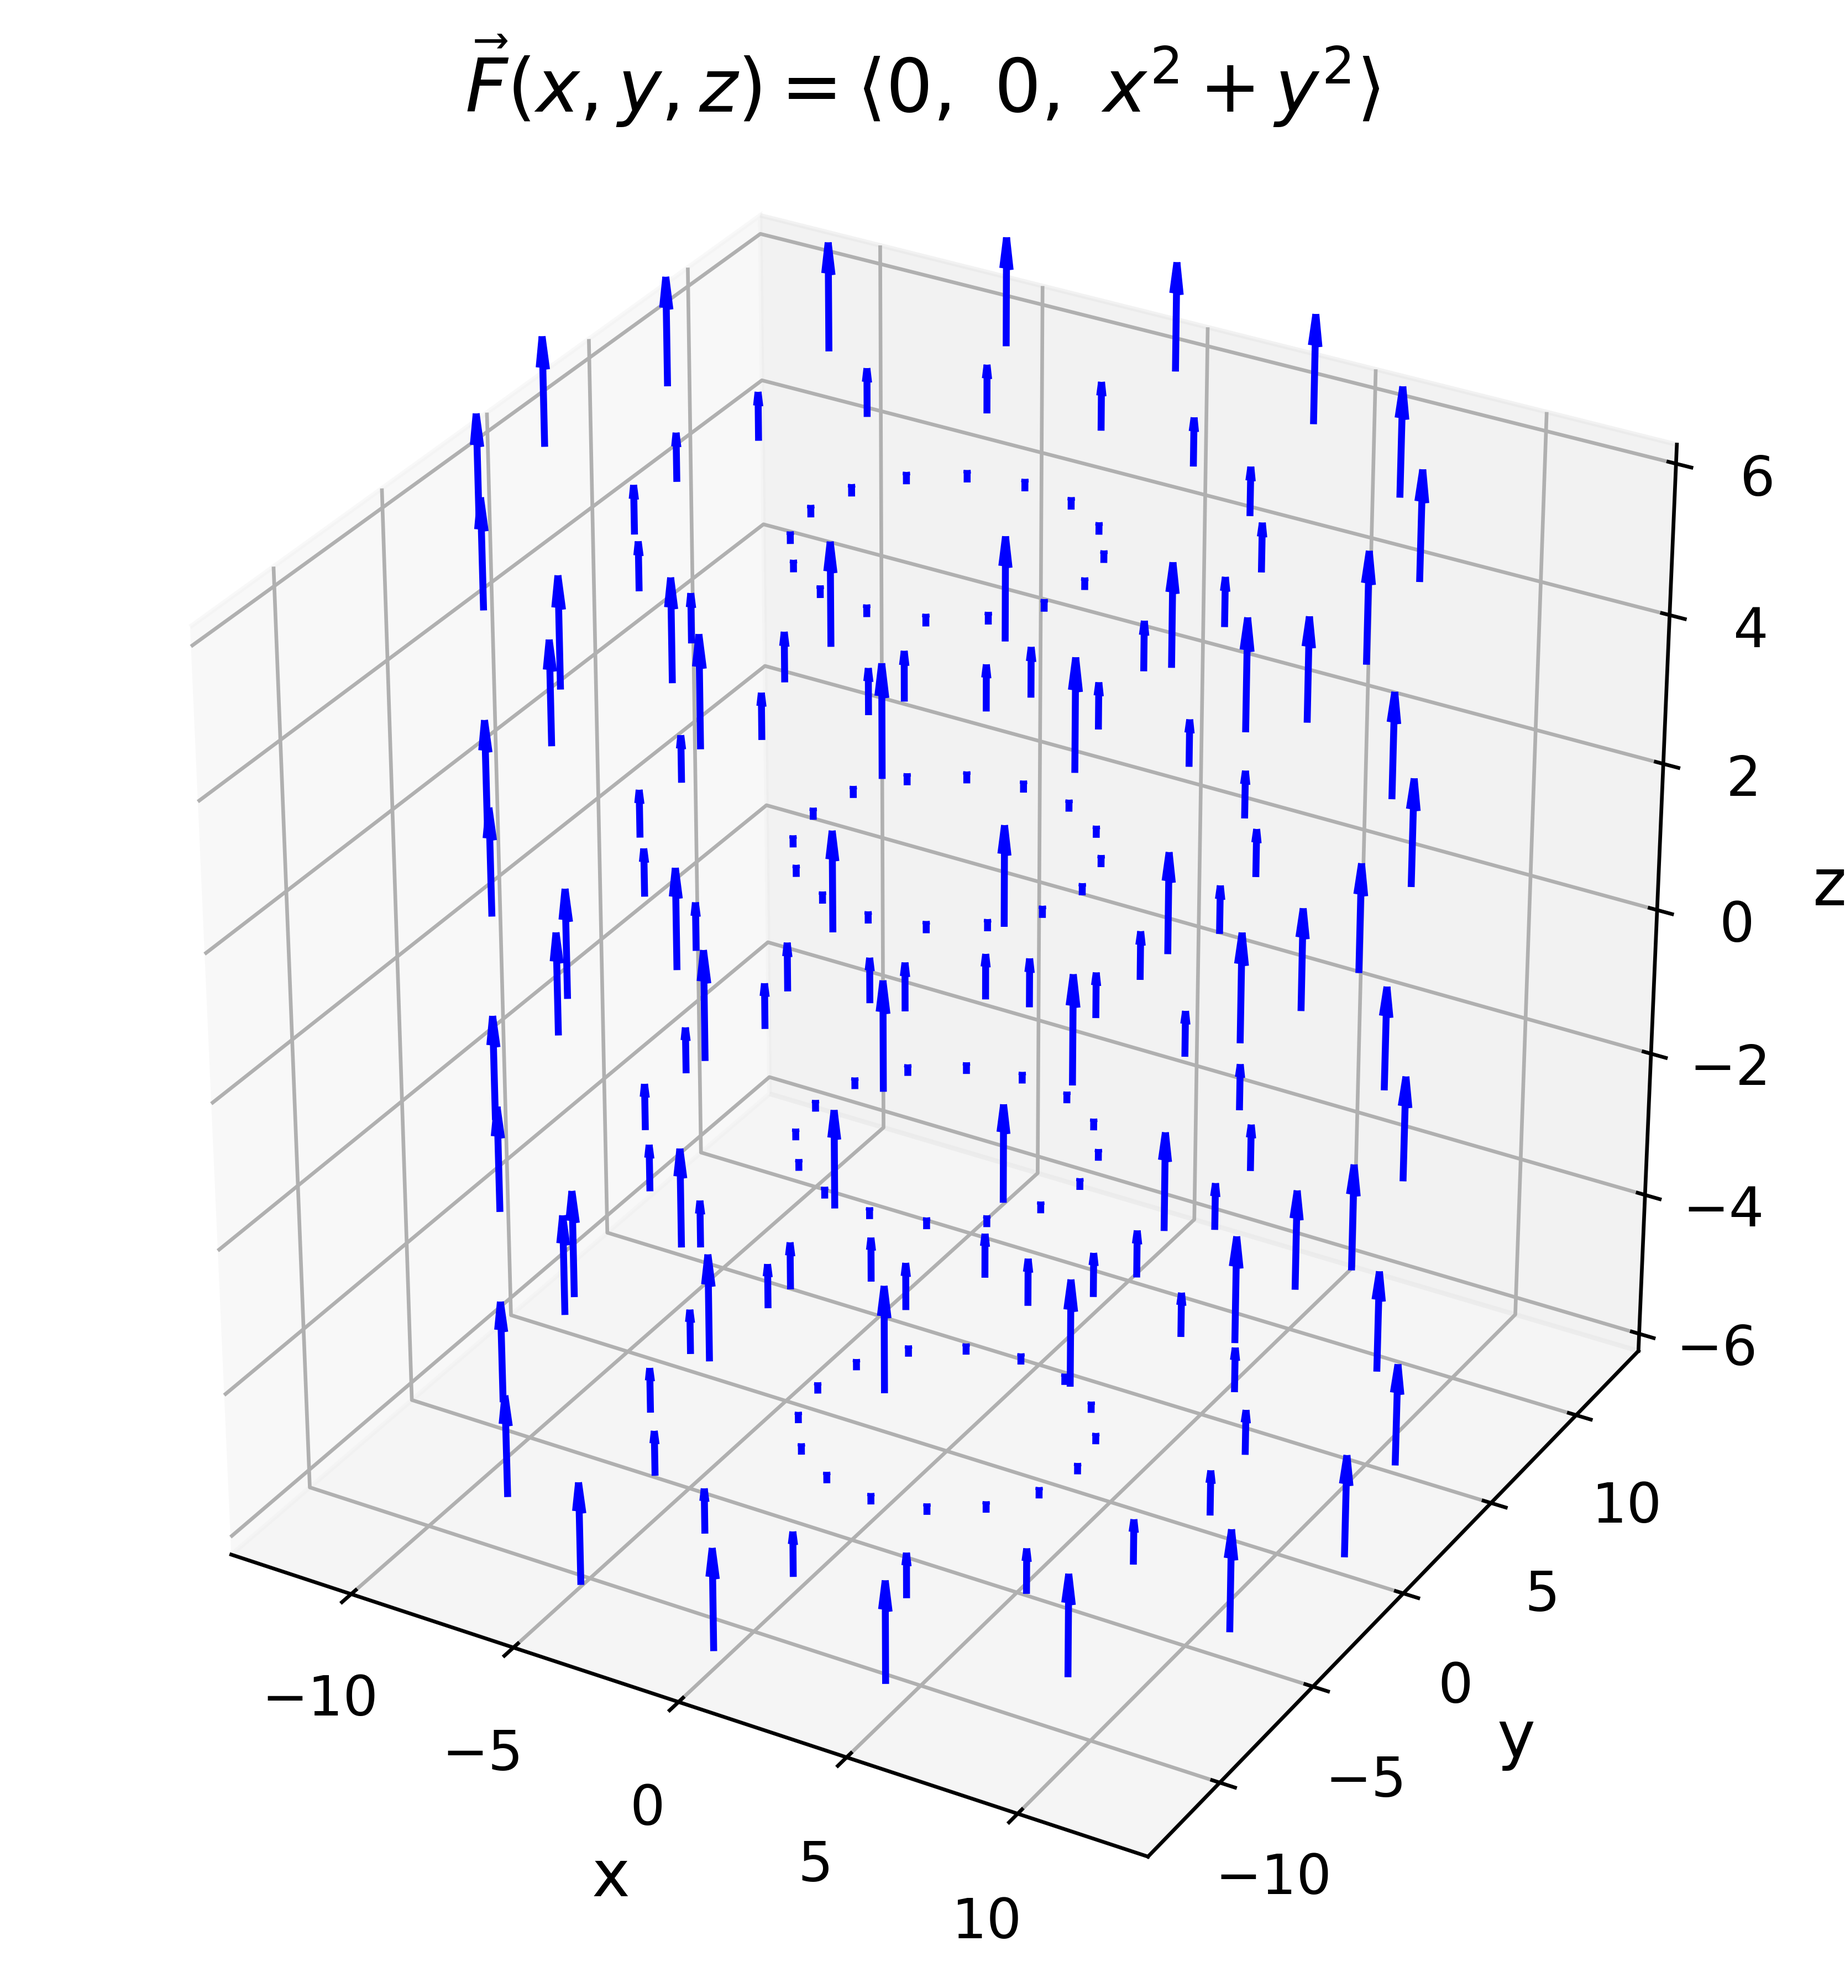
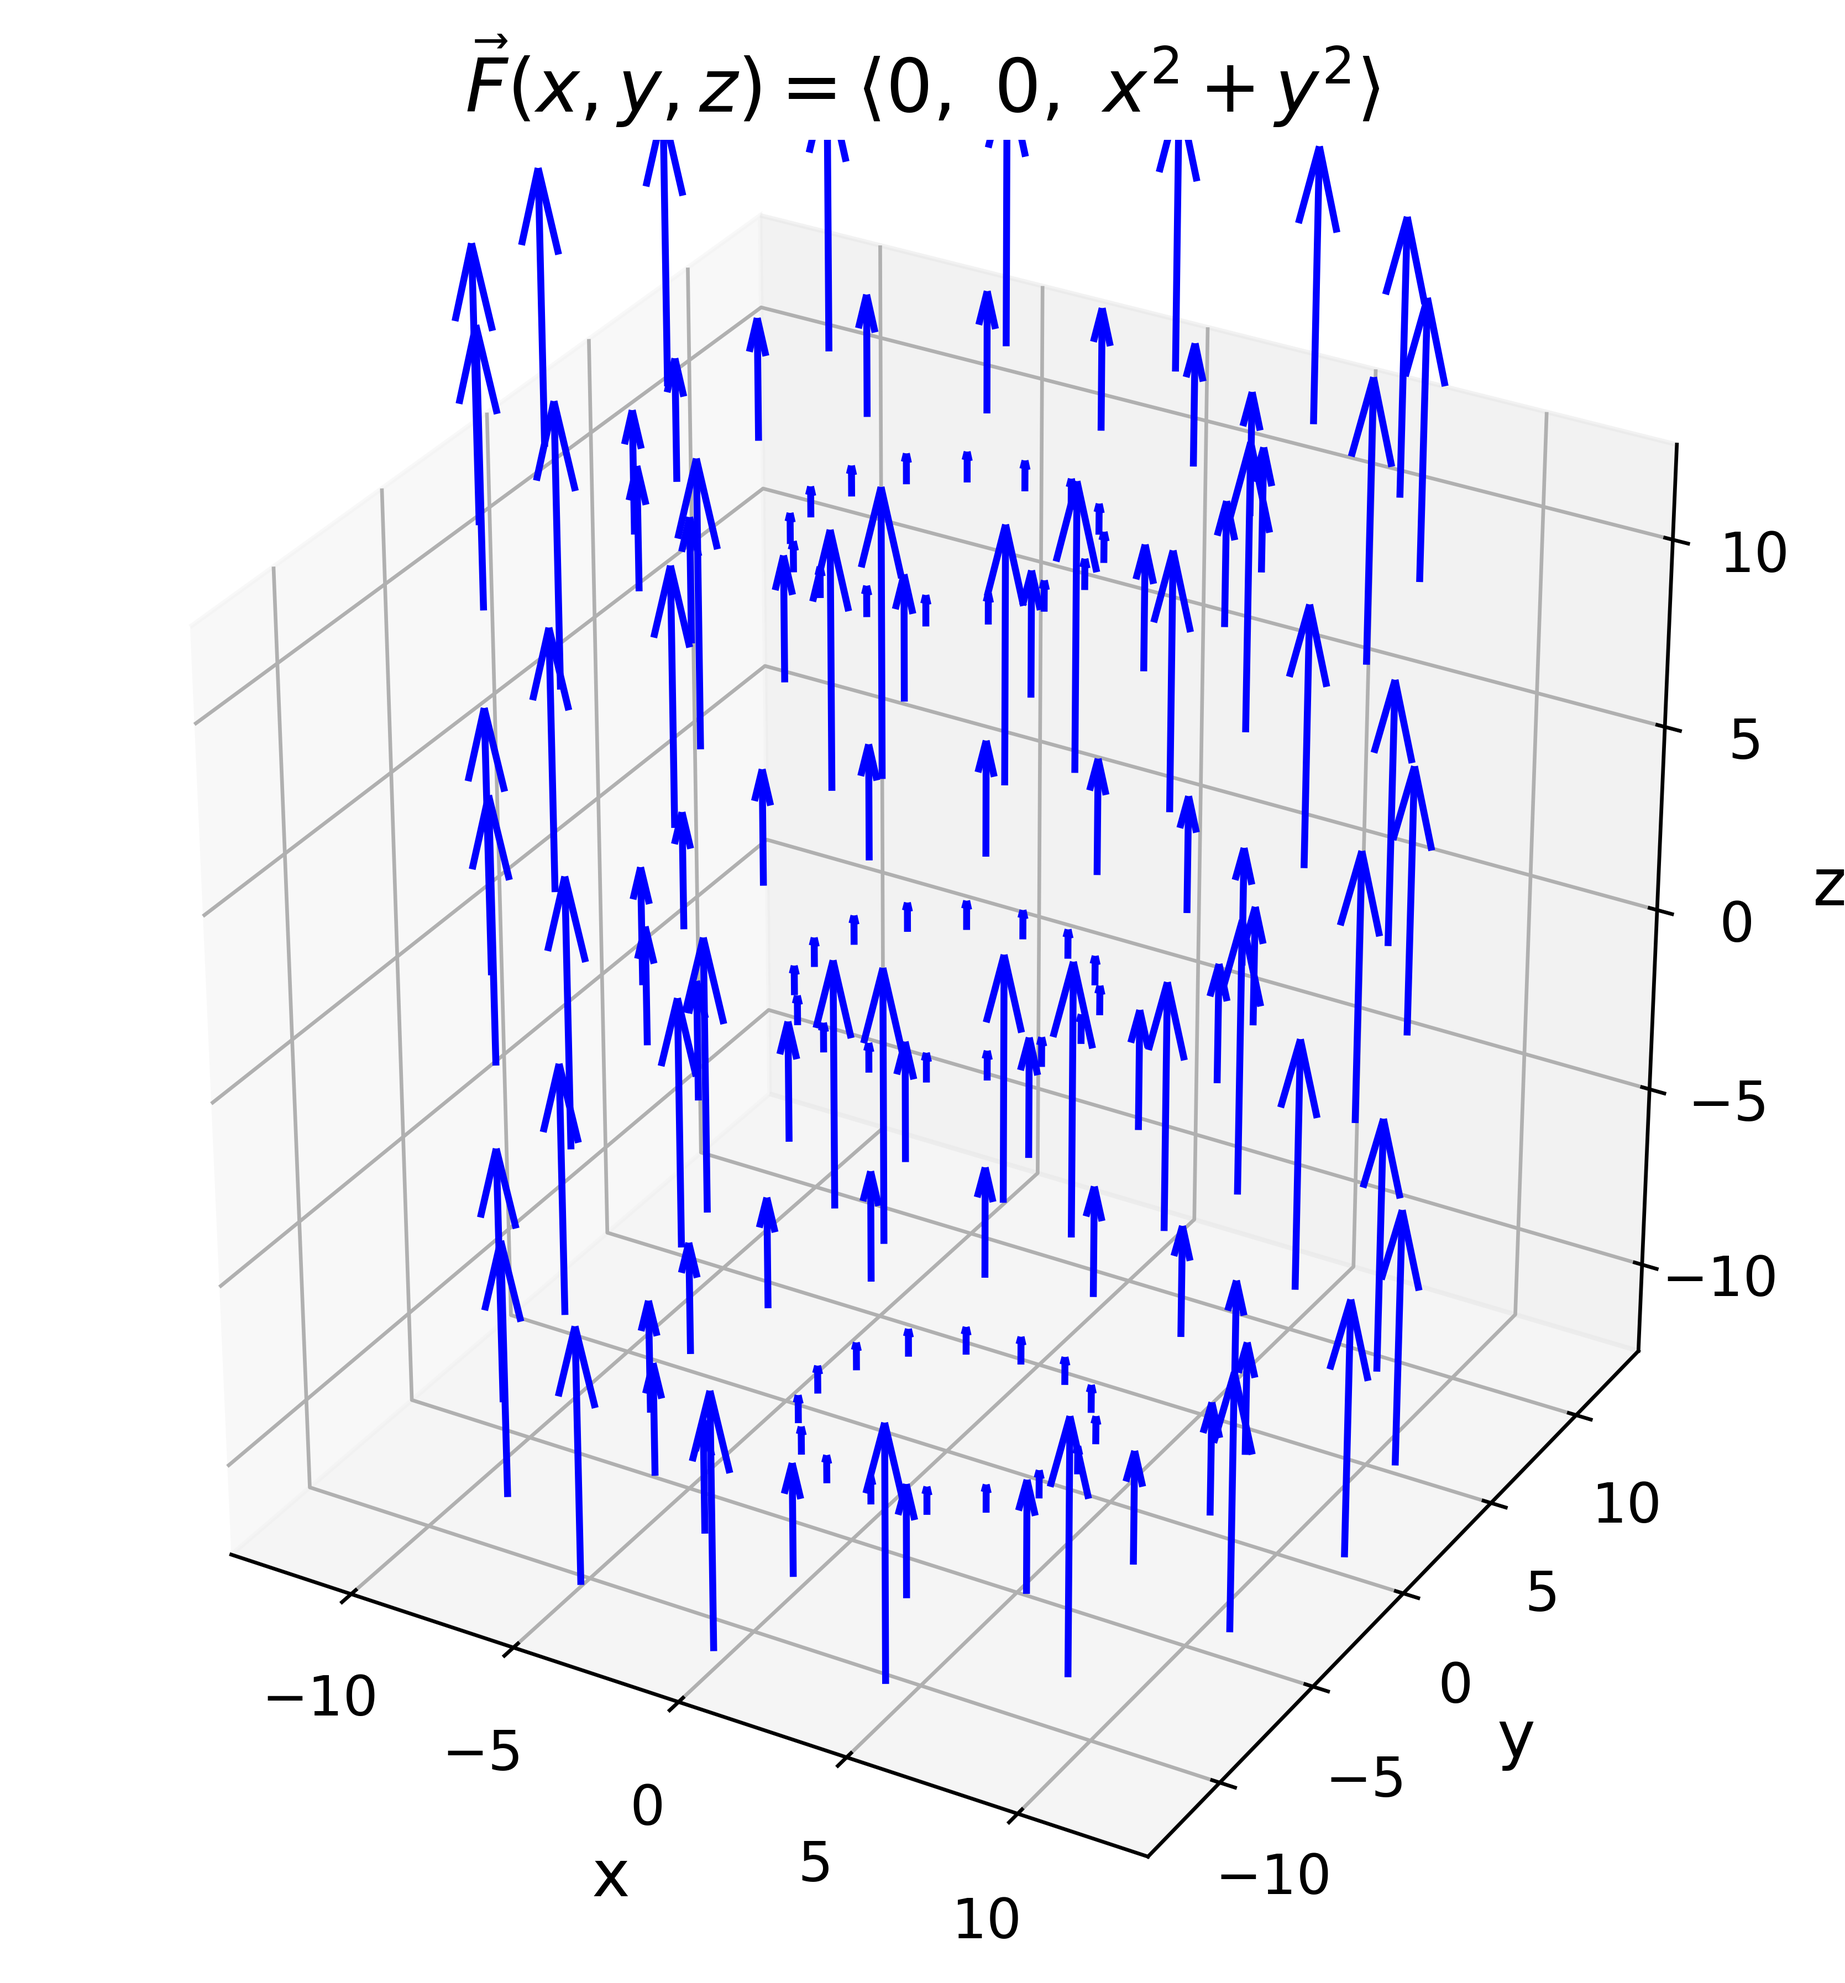
1.1.7 polished

diff --git a/one-one/seven/c.py b/one-one/seven/c.py
@@ -1,32 +1,10 @@
-import numpy as np
-import matplotlib.pyplot as plt
+from vector_field import vf_plot
 
-from mpl_toolkits.mplot3d import Axes3D
-
-# Parameters
-radii = np.linspace(0, 12, 4)
-thetas = np.linspace(0, 2 * np.pi, 16, endpoint=False)
-zs = np.linspace(-6, 6, 4)
-
-R, T, Z = np.meshgrid(radii, thetas, zs, indexing='ij')
-X = R * np.cos(T)
-Y = R * np.sin(T)
-
-U = X + Y
-V = X - Y
-W = -Z
-
-fig = plt.figure(figsize=(6, 6))
-ax = fig.add_subplot(111, projection="3d")
-ax.quiver(X, Y, Z, U, V, W, length=0.2, normalize=False, color="blue", arrow_length_ratio=0.3)
-
-ax.set_title(r"$\vec{F}(x, y, z) = \langle x + y,\ x - y,\ -z \rangle$", fontsize=16)
-ax.set_xlabel("x", fontsize=14)
-ax.set_ylabel("y", fontsize=14)
-ax.set_zlabel("z", fontsize=14)
-ax.set_box_aspect([1, 1, 1])
-ax.tick_params(labelsize=12)
-
-plt.tight_layout()
-plt.savefig("one-one/seven/images/vector_field_c.png", dpi=600, bbox_inches="tight")
-plt.show()
+vf_plot(
+    "c", 
+    fx=lambda x,y,z: x + y, 
+    fy=lambda x,y,z: x - y,
+    fz=lambda x, y, z: -z, 
+    title=r"$\vec{F}(x, y, z) = \langle x + y,\ x - y,\ -z \rangle$",
+    length=0.2
+)

diff --git a/one-one/seven/b.py b/one-one/seven/b.py
@@ -1,32 +1,10 @@
-import numpy as np
-import matplotlib.pyplot as plt
+from vector_field import vf_plot
 
-from mpl_toolkits.mplot3d import Axes3D
-
-# Parameters
-radii = np.linspace(0, 12, 4)
-thetas = np.linspace(0, 2 * np.pi, 16, endpoint=False)
-zs = np.linspace(-6, 6, 4)
-
-R, T, Z = np.meshgrid(radii, thetas, zs, indexing='ij')
-X = R * np.cos(T)
-Y = R * np.sin(T)
-
-U = Y
-V = -X
-W = -Z
-
-fig = plt.figure(figsize=(6, 6))
-ax = fig.add_subplot(111, projection="3d")
-ax.quiver(X, Y, Z, U, V, W, length=0.2, normalize=False, color="blue", arrow_length_ratio=0.3)
-
-ax.set_title(r"$\vec{F}(x, y, z) = \langle y,\ -x,\ -z \rangle$", fontsize=16)
-ax.set_xlabel("x", fontsize=14)
-ax.set_ylabel("y", fontsize=14)
-ax.set_zlabel("z", fontsize=14)
-ax.set_box_aspect([1, 1, 1])
-ax.tick_params(labelsize=12)
-
-plt.tight_layout()
-plt.savefig("one-one/seven/images/vector_field_b.png", dpi=600, bbox_inches="tight")
-plt.show()
+vf_plot(
+    "b", 
+    fx=lambda x,y,z: y, 
+    fy=lambda x,y,z: -x,
+    fz=lambda x, y, z: -z, 
+    title=r"$\vec{F}(x, y, z) = \langle y,\ -x,\ -z \rangle$",
+    length=0.2
+)

diff --git a/one-one/seven/a.py b/one-one/seven/a.py
@@ -1,32 +1,3 @@
-import numpy as np
-import matplotlib.pyplot as plt
+from vector_field import vf_plot
 
-from mpl_toolkits.mplot3d import Axes3D
-
-# Parameters
-radii = np.linspace(0, 12, 4)
-thetas = np.linspace(0, 2 * np.pi, 16, endpoint=False)
-zs = np.linspace(-6, 6, 4)
-
-R, T, Z = np.meshgrid(radii, thetas, zs, indexing='ij')
-X = R * np.cos(T)
-Y = R * np.sin(T)
-
-U = np.zeros_like(X)
-V = np.zeros_like(Y)
-W = X**2 + Y**2
-
-fig = plt.figure(figsize=(6, 6))
-ax = fig.add_subplot(111, projection="3d")
-ax.quiver(X, Y, Z, U, V, W, length=0.01, normalize=False, color="blue", arrow_length_ratio=0.3)
-
-ax.set_title(r"$\vec{F}(x, y, z) = \langle 0,\ 0,\ x^2 + y^2 \rangle$", fontsize=16)
-ax.set_xlabel("x", fontsize=14)
-ax.set_ylabel("y", fontsize=14)
-ax.set_zlabel("z", fontsize=14)
-ax.set_box_aspect([1, 1, 1])
-ax.tick_params(labelsize=12)
-
-plt.tight_layout()
-plt.savefig("one-one/seven/images/vector_field_a.png", dpi=600, bbox_inches="tight")
-plt.show()
+vf_plot("a", fz=lambda x, y, z: x**2 + y**2, title=r"$\vec{F}(x, y, z) = \langle 0,\ 0,\ x^2 + y^2 \rangle$")

diff --git a/one-one/seven/vector_field.py b/one-one/seven/vector_field.py
@@ -1,0 +1,29 @@
+import numpy as np
+import matplotlib.pyplot as plt
+
+def vf_plot(url, fx=lambda x,y,z: 0, fy=lambda x,y,z: 0, fz=lambda x,y,z: 0, title="", length=0.05):
+    r = np.linspace(0, 12, 4)
+    t = np.linspace(0, 2 * np.pi, 16, endpoint=False)
+    z = np.linspace(-12, 12, 3)
+
+    R, T, Z = np.meshgrid(r, t, z, indexing="ij")
+    X = R * np.cos(T)
+    Y = R * np.sin(T)
+    U = fx(X, Y, Z)
+    V = fy(X, Y, Z)
+    W = fz(X, Y, Z)
+
+    fig = plt.figure(figsize=(6, 6))
+    ax = fig.add_subplot(111, projection="3d")
+    ax.quiver(X, Y, Z, U, V, W, length=length, normalize=False, color="blue", arrow_length_ratio=0.3)
+
+    ax.set_title(title, fontsize=16)
+    ax.set_xlabel("x", fontsize=14)
+    ax.set_ylabel("y", fontsize=14)
+    ax.set_zlabel("z", fontsize=14)
+    ax.set_box_aspect([1, 1, 1])
+    ax.tick_params(labelsize=12)
+
+    plt.tight_layout()
+    plt.savefig(f"one-one/seven/images/vector_field_{url}.png", dpi=600, bbox_inches="tight")
+    plt.show()
